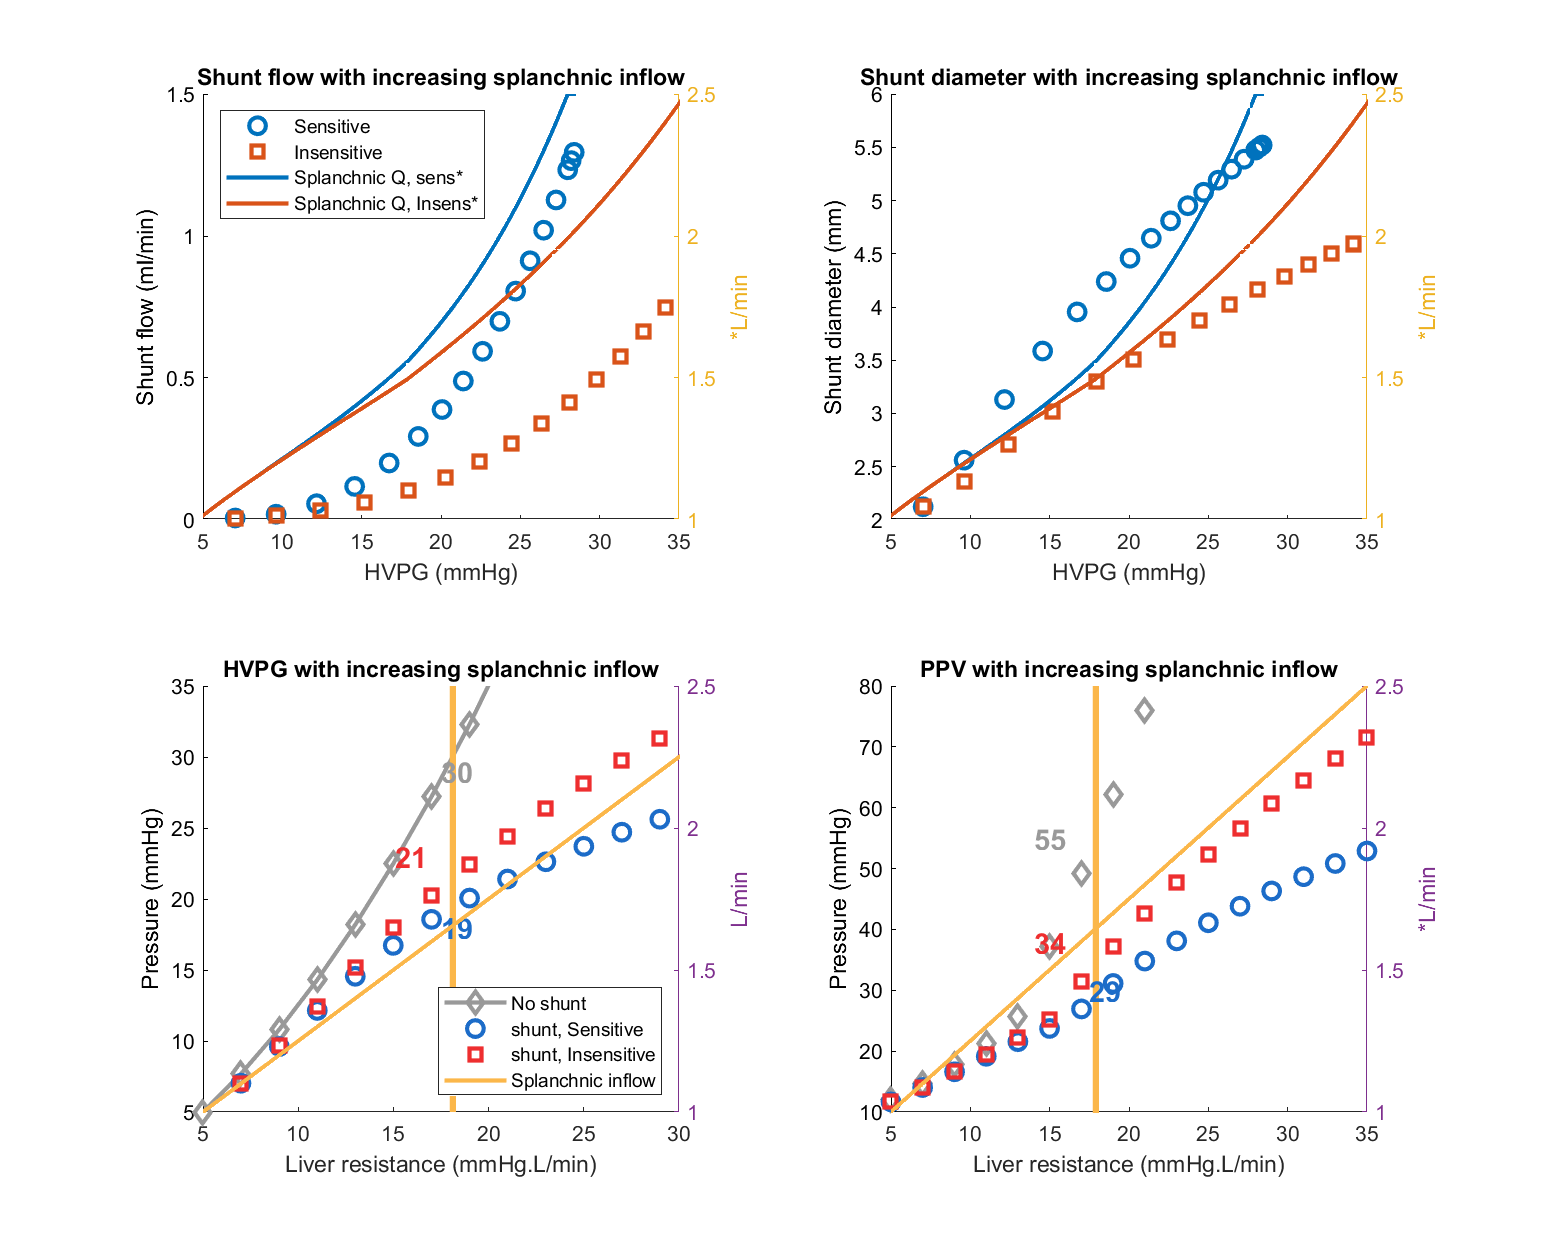
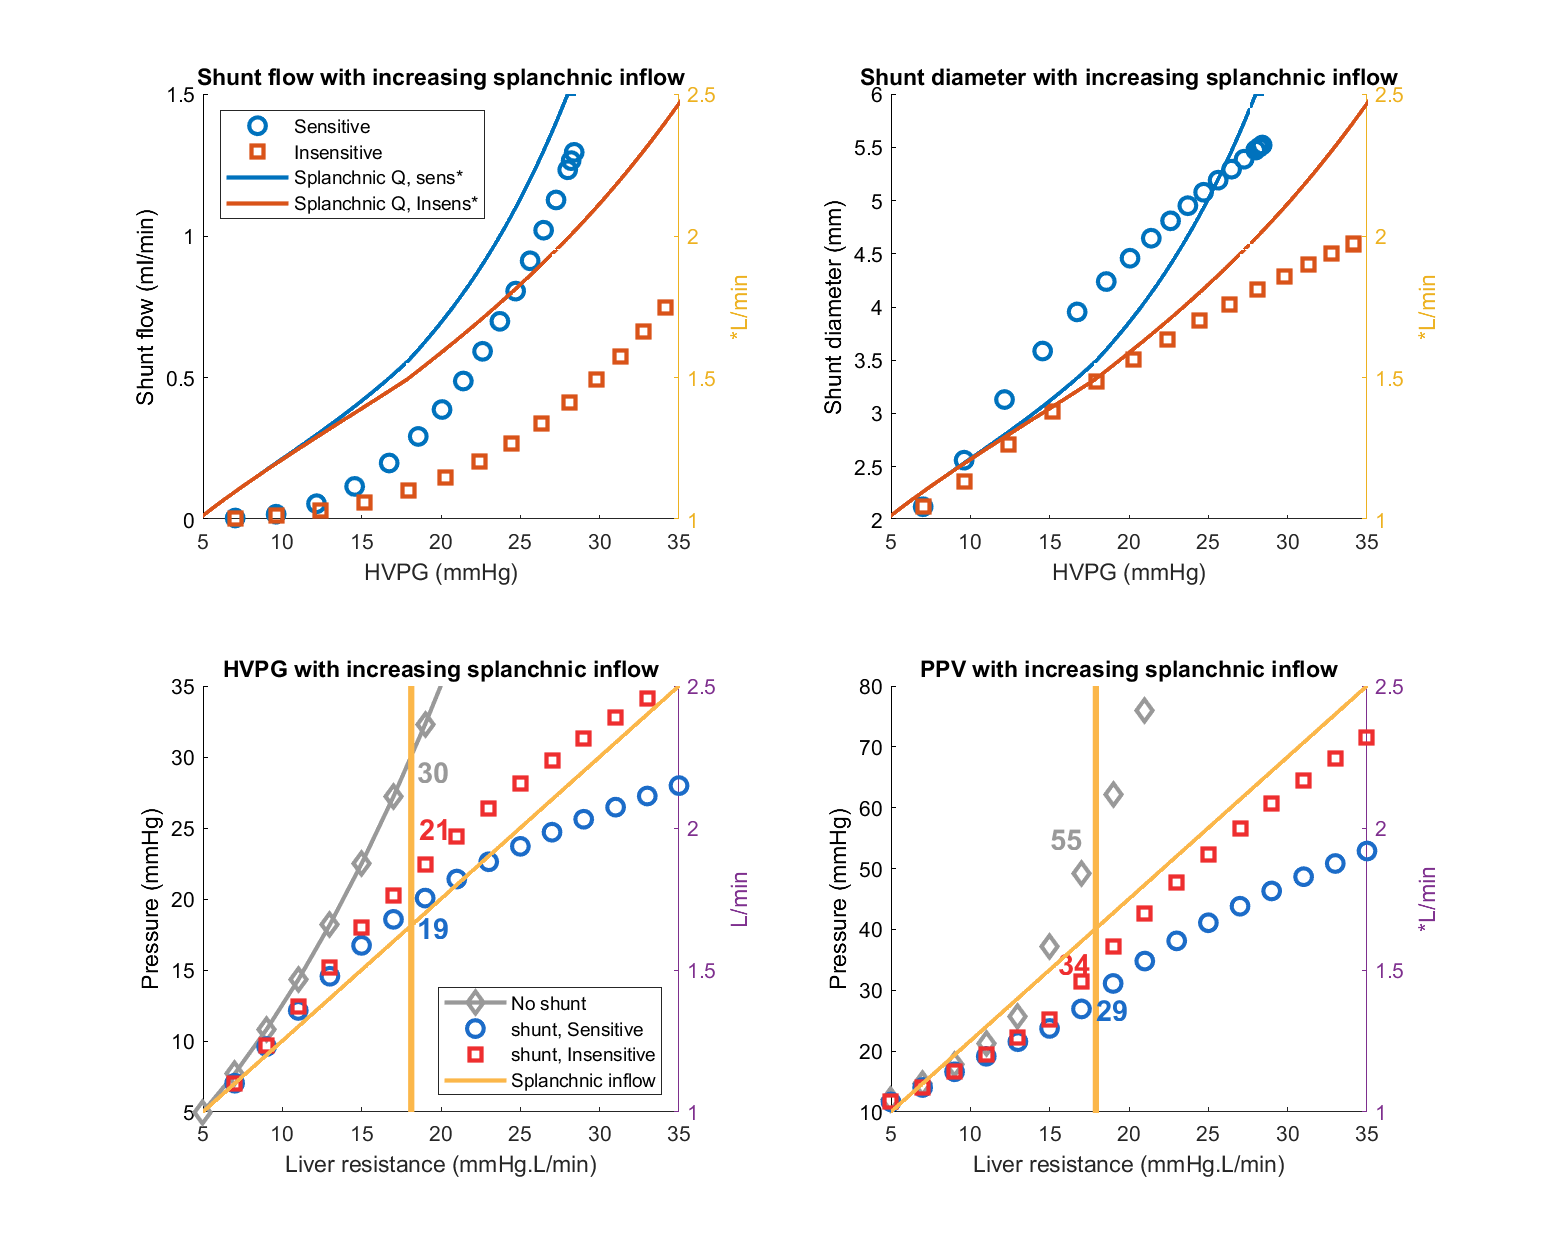
Fix suppl fig range

diff --git a/Scripts/PlotFigures.m b/Scripts/PlotFigures.m
@@ -97,7 +97,6 @@ ylabel('Pressure (mmHg)');
 ylim([5 35]);
 xlim([5 35]);
 xlabel('Liver resistance (mmHg.L/min)');
-xlim([5,30])
 yyaxis right;
 
 p_inf = plot(R_liver, inflow, '-', 'Color', [251 183 74]/255, 'Linewidth', 2, 'MarkerSize', ms);
@@ -105,9 +104,9 @@ ylabel('L/min')
 
 yyaxis left
 plot([1 1]*R_liver(find(hvpg_ns >= 30, 1, 'first')), [5 35], 'Color', [251 183 74]/255, 'linewidth', 3)
-text(17.5, 29, num2str(round(hvpg_ns(find(hvpg_ns >= 30, 1, 'first')))), 'fontweight','bold','fontsize',14, 'Color', color_s)
-text(15.1, 23, num2str(round(hvpg_snres(find(hvpg_ns >= 30, 1, 'first')))), 'fontweight','bold','fontsize',14, 'Color', color_r)
-text(17.5, 18, num2str(round(hvpg_sres(find(hvpg_ns >= 30, 1, 'first')))), 'fontweight','bold','fontsize',14, 'Color', color_b)
+text(18.5, 29, num2str(round(hvpg_ns(find(hvpg_ns >= 30, 1, 'first')))), 'fontweight','bold','fontsize',14, 'Color', color_s)
+text(18.6, 25, num2str(round(hvpg_snres(find(hvpg_ns >= 30, 1, 'first')))), 'fontweight','bold','fontsize',14, 'Color', color_r)
+text(18.5, 18, num2str(round(hvpg_sres(find(hvpg_ns >= 30, 1, 'first')))), 'fontweight','bold','fontsize',14, 'Color', color_b)
 legend([p_hvpg_ns, p_hvpg_res, p_hvpg_nres, p_inf], 'No shunt', 'shunt, Sensitive', 'shunt, Insensitive', 'Splanchnic inflow*', 'location', 'southeast')
 
 
@@ -127,9 +126,9 @@ ylabel('*L/min')
 
 yyaxis left
 plot([1 1]*R_liver(find(ppv_ns >= 55, 1, 'first')), [5 100], 'Color', [251 183 74]/255, 'linewidth', 3)
-text(14, 55, num2str(round(ppv_ns(find(ppv_ns >= 55, 1, 'first')))), 'fontweight','bold','fontsize',14, 'Color', color_s)
-text(14, 38, num2str(round(ppv_snres(find(ppv_ns >= 55, 1, 'first')))), 'fontweight','bold','fontsize',14, 'Color', color_r)
-text(17.5, 30, num2str(round(ppv_sres(find(ppv_ns >= 55, 1, 'first')))), 'fontweight','bold','fontsize',14, 'Color', color_b)
+text(15, 55, num2str(round(ppv_ns(find(ppv_ns >= 55, 1, 'first')))), 'fontweight','bold','fontsize',14, 'Color', color_s)
+text(15.5, 34.5, num2str(round(ppv_snres(find(ppv_ns >= 55, 1, 'first')))), 'fontweight','bold','fontsize',14, 'Color', color_r)
+text(17.9, 27, num2str(round(ppv_sres(find(ppv_ns >= 55, 1, 'first')))), 'fontweight','bold','fontsize',14, 'Color', color_b)
 legend([p_hvpg_ns, p_hvpg_res, p_hvpg_nres, p_inf], 'No shunt', 'shunt, Sensitive', 'shunt, Insensitive', 'Splanchnic inflow', 'location', 'southeast')
 
 if savefigs
